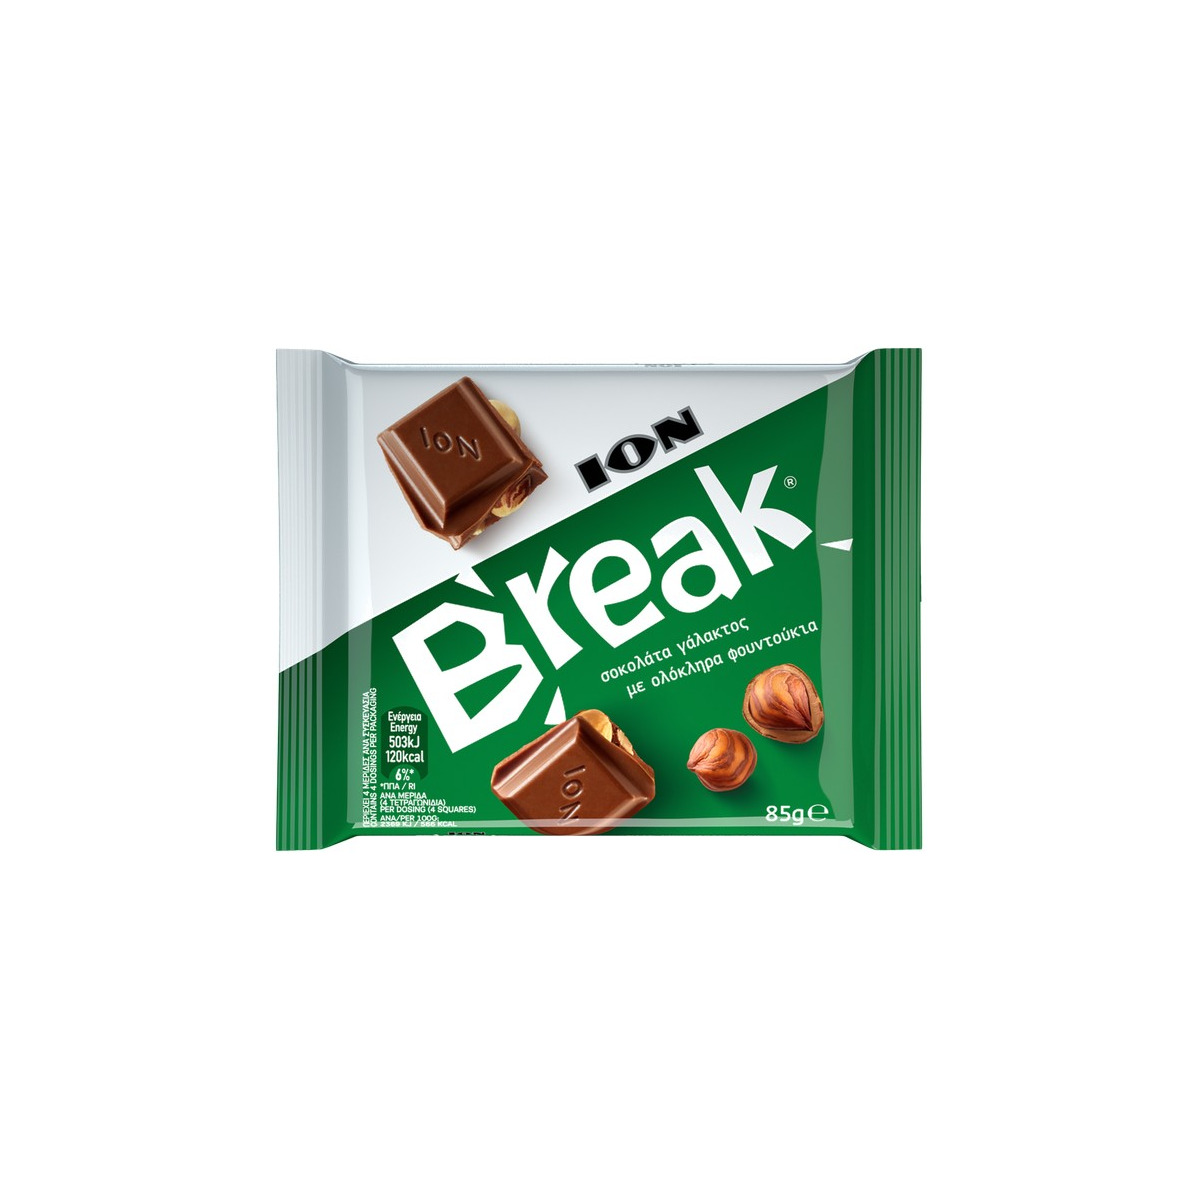
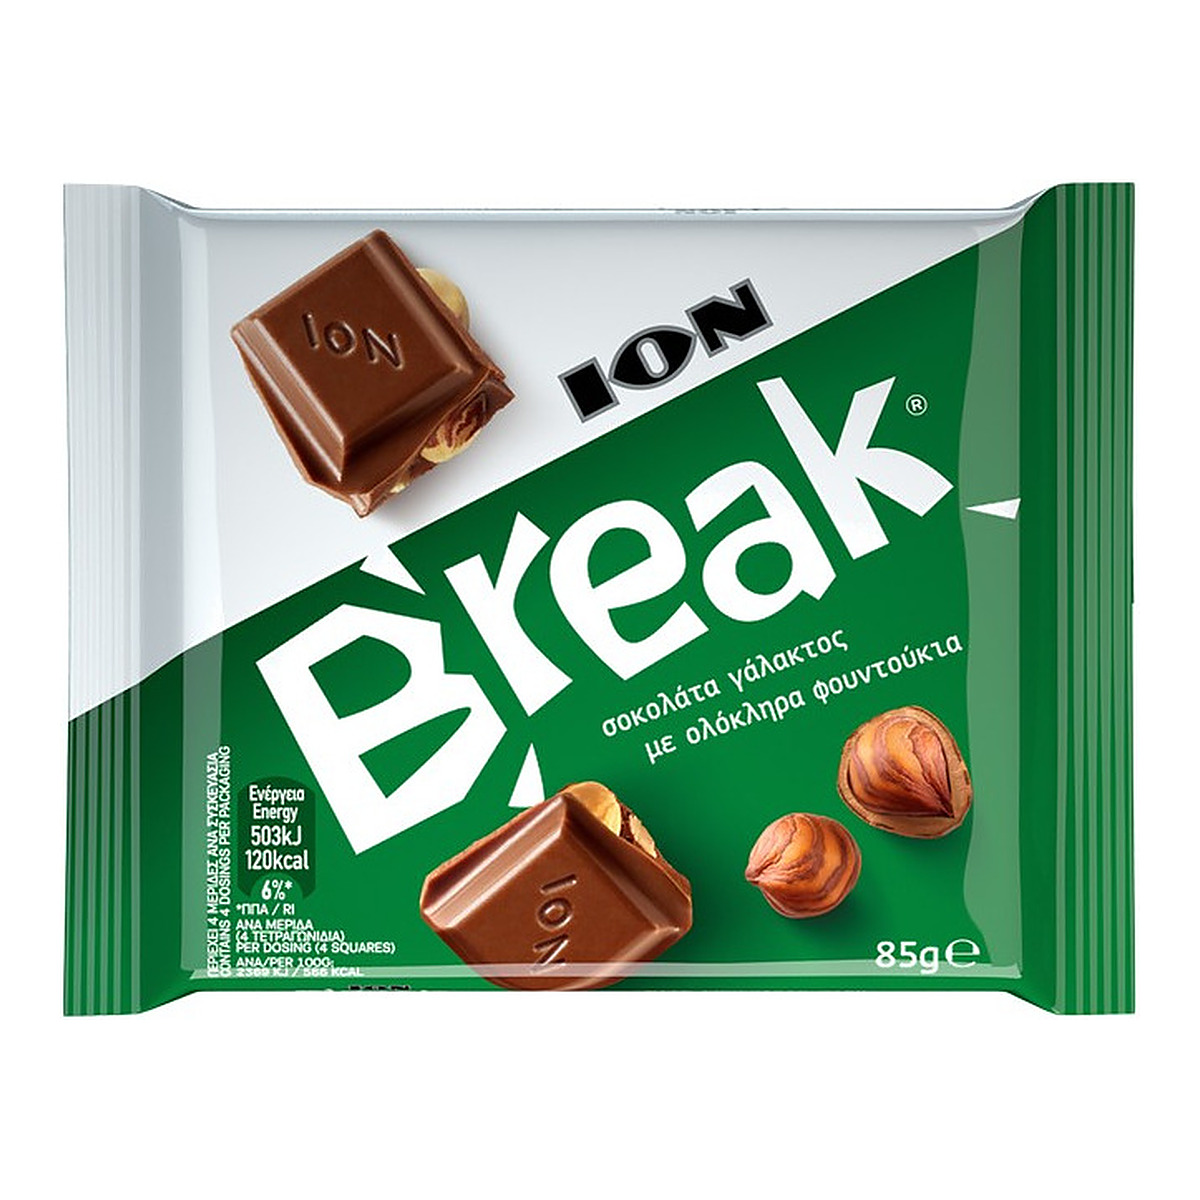
Enlarge market photos so the longer side fills 90% of the square
Official ION, Kinder, and Vikos water assets were smaller than the current exact packs, so every ψιλικά item is recarded from the current photo on a 1200x1200 white square with the longer side at ~90% (wide bars fill width, bottles fill height; LANCZOS, at most 2.5x, light sharpen). Bump catalog photos to ?v=37. Prices unchanged.

diff --git a/src/lib/catalog.ts b/src/lib/catalog.ts
@@ -259,7 +259,7 @@ export const DEFAULT_SHOP: ShopSettings = {
   hoursNote: "Καθημερινά",
 };
 
-const img = (file: string) => `/images/products/${file}?v=36`;
+const img = (file: string) => `/images/products/${file}?v=37`;
 
 const BASE_MENU: Omit<Product, "stock">[] = [
   { id: "esp", name: "Espresso", desc: "Μονός, κοντός, με κρέμα", price: 1.8, cat: "coffee", photo: img("espresso.jpg") },
